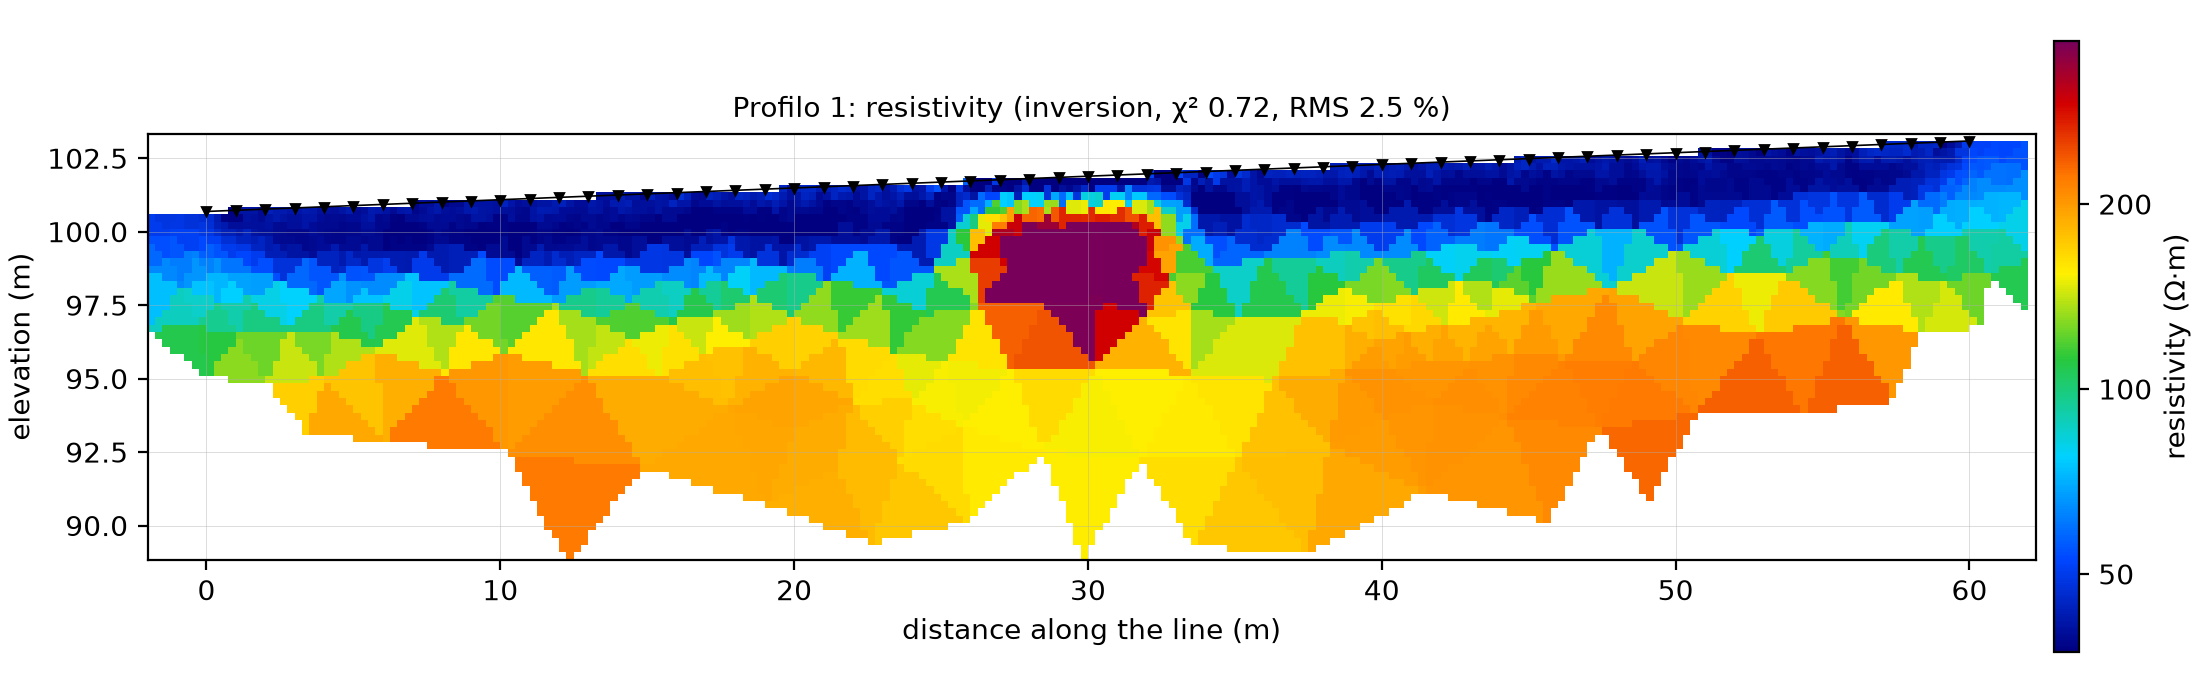
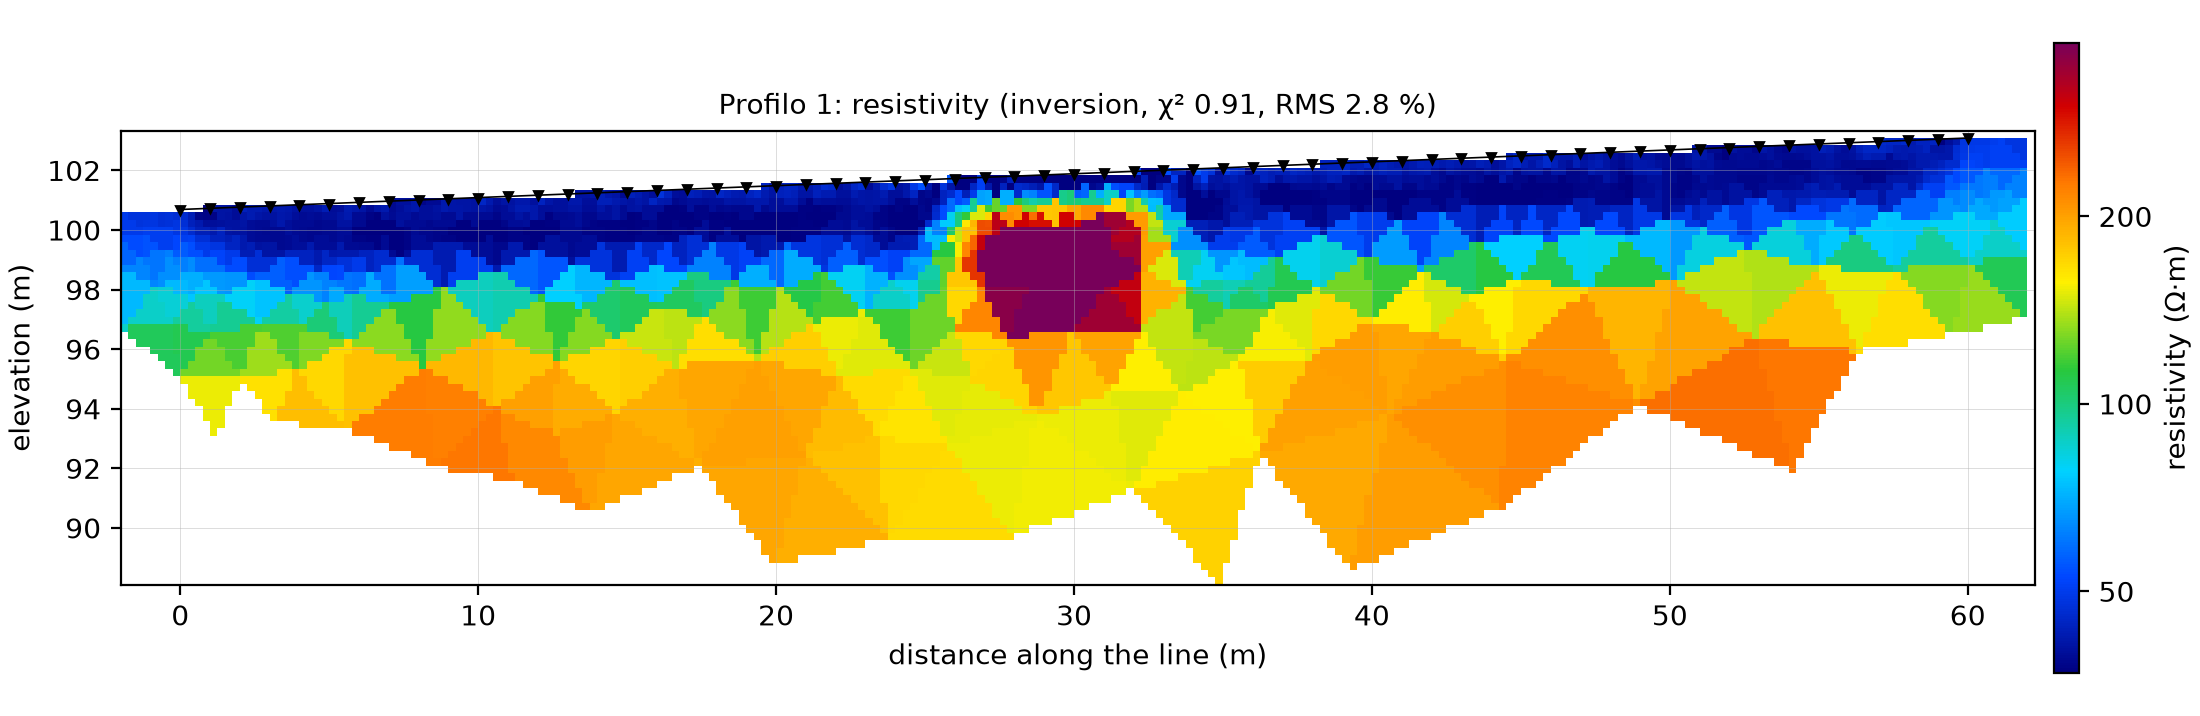
docs(plugins): ERT images shot again, the placement dialog, readings removed by an area
The pane with Remove readings... and Blanking..., the pseudosection drawn as one item,
the section, the 3D view and the exported figure shot again from /Users/Shared (English
and Italian); a new image of the placement dialog with Spacing measured. The text says
how readings leave the inversion now (an area drawn on the pseudosection, not the Select
tool) and the new fit of the example (chi2 0.91, RMS 2.8 %, 637 m2).

diff --git a/docs/plugins/geophysics.it.md b/docs/plugins/geophysics.it.md
@@ -503,7 +503,7 @@ importa letture...* e *Installa pyGIMLi...*.
 <figure markdown="span">
   ![La scheda ERT del pannello Geofisica](../img/plugins/geophysics/ert-pane.it.png)
   <figcaption>La scheda ERT dopo un'inversione: ogni passo con il suo stato - 61 elettrodi e 1711 letture,
-  una linea di 60 m con le quote dal DEM, 1706 letture valide, χ² 0,72 e RMS 2,5 % - e i colori della
+  una linea di 60 m con le quote dal DEM, 1706 letture valide, χ² 0,91 e RMS 2,8 % - e i colori della
   sezione con l'oscuramento in vigore.</figcaption>
 </figure>
 
@@ -582,6 +582,12 @@ Poi, nella stessa finestra:
   chunk ha un DEM), *dal file* (le quote del file degli elettrodi, più la quota sotto) o *piatte* alla quota
   sotto. Le quote sono la topografia che l'inversione segue: su un pendio o un tumulo usa il DEM o il file.
 
+<figure markdown="span">
+  ![La finestra della posa dopo aver disegnato la linea](../img/plugins/geophysics/ert-place.it.png)
+  <figcaption>La finestra che si apre quando la linea è disegnata: il primo elettrodo, la spaziatura, come è
+  misurata (qui in pianta, perché le letture sintetiche hanno le quote) e da dove vengono le quote.</figcaption>
+</figure>
+
 Il pannello dice la lunghezza della linea e l'intervallo delle quote. *Linea sulla pianta* disegna ogni linea
 posata e i suoi elettrodi sull'ortofoto o sul DEM, in un layer, con il suo nome e i numeri del primo e
 dell'ultimo elettrodo.
@@ -594,9 +600,11 @@ punto medio dei quattro elettrodi della lettura, quella verticale una **pseudopr
 dati misurati, non il terreno: ma si vedono a colpo d'occhio le letture cattive - punti isolati di un colore
 molto diverso - e l'impostazione generale del rilievo.
 
-Per togliere una lettura selezionala con lo strumento *Seleziona* del programma e premi *Canc*: diventa
-grigia e resta fuori dall'inversione. *Filtri...* ne toglie molte insieme. Ogni regola è spenta se lasciata
-vuota.
+Per togliere delle letture premi *Togli letture...* e disegna un'area intorno a loro sulla pseudosezione, con il
+disegno del programma (trascina un riquadro, oppure clic sui vertici e doppio clic o Invio; Esc annulla): le
+letture dentro diventano grigie e restano fuori dall'inversione. Le letture sono un'unica immagine del plugin,
+non elementi della vista: lo strumento *Seleziona* del programma non le prende. *Filtri...* ne toglie molte
+insieme. Ogni regola è spenta se lasciata vuota.
 
 | Filtro | Che cosa toglie |
 |---|---|
@@ -604,7 +612,7 @@ vuota.
 | Errore massimo della lettura (%) | le letture il cui errore (la deviazione che lo strumento registra) è sopra il valore, solo se il file lo ha |
 | Errore reciproco massimo (%) | le letture che differiscono dalla loro reciproca - la stessa lettura con gli elettrodi di corrente e di potenziale scambiati - di più del valore; solo per le letture che ne hanno una |
 | Picchi: scarto dai vicini | le letture lontane dai vicini nella pseudosezione, in deviazioni robuste dell'insieme: 8 è un inizio usuale, meno ne toglie di più |
-| Rimetti le letture tolte a mano | annulla le cancellazioni fatte con lo strumento *Seleziona* |
+| Rimetti le letture tolte a mano | ridà le letture tolte con *Togli letture...* (anche *Modifica > Annulla* le ridà) |
 
 Le resistività apparenti nulle o negative sono sempre tolte. Il pannello tiene il conto - *1706 letture
 valide su 1711 (picchi 5)* - e ogni rimozione è registrata, quindi niente va perso: cambia una regola e le
@@ -614,7 +622,8 @@ letture tornano.
   ![La pseudosezione del profilo nella vista 2D](../img/plugins/geophysics/ert-pseudosection.it.png)
   <figcaption>La pseudosezione del profilo sintetico dopo il filtro dei picchi: cinque letture rese sbagliate
   apposta sono grigie, le altre colorate secondo la loro resistività apparente; gli elettrodi nella riga in
-  alto. Il blocco resistivo si vede come una banda verticale di rosso sotto il mezzo della linea.</figcaption>
+  alto. Il blocco resistivo si vede come le due bande rosse oblique, a V rovesciata, che partono dal mezzo della
+  linea: il disegno tipico di un corpo resistivo nel dipolo-dipolo.</figcaption>
 </figure>
 
 ### L'inversione { #ert-invert }
@@ -663,7 +672,7 @@ nel parametro *Profondità d'indagine*:
   risolto, a 1) sono oscurate. Richiede tre volte il tempo; è la risposta migliore quando la profondità della
   sezione conta per te.
 
-Il pannello dice quale oscuramento vale e l'area di sezione rimasta (*633 m² di sezione*). Le soglie si
+Il pannello dice quale oscuramento vale e l'area di sezione rimasta (*637 m² di sezione*). Le soglie si
 cambiano dopo l'inversione con il pulsante *Oscuramento...* del passo *Sezione*: la sezione si ridisegna dalla
 stessa inversione, che non si rifà (si sceglie anche *nessuno*, tutta la maglia). L'indice DOI c'è solo se
 l'inversione l'ha calcolato.

diff --git a/src/pyarchinit_photogrammetry/assistant/guide/plugins/geophysics.it.md b/src/pyarchinit_photogrammetry/assistant/guide/plugins/geophysics.it.md
@@ -503,7 +503,7 @@ importa letture...* e *Installa pyGIMLi...*.
 <figure markdown="span">
   ![La scheda ERT del pannello Geofisica](../img/plugins/geophysics/ert-pane.it.png)
   <figcaption>La scheda ERT dopo un'inversione: ogni passo con il suo stato - 61 elettrodi e 1711 letture,
-  una linea di 60 m con le quote dal DEM, 1706 letture valide, χ² 0,72 e RMS 2,5 % - e i colori della
+  una linea di 60 m con le quote dal DEM, 1706 letture valide, χ² 0,91 e RMS 2,8 % - e i colori della
   sezione con l'oscuramento in vigore.</figcaption>
 </figure>
 
@@ -582,6 +582,12 @@ Poi, nella stessa finestra:
   chunk ha un DEM), *dal file* (le quote del file degli elettrodi, più la quota sotto) o *piatte* alla quota
   sotto. Le quote sono la topografia che l'inversione segue: su un pendio o un tumulo usa il DEM o il file.
 
+<figure markdown="span">
+  ![La finestra della posa dopo aver disegnato la linea](../img/plugins/geophysics/ert-place.it.png)
+  <figcaption>La finestra che si apre quando la linea è disegnata: il primo elettrodo, la spaziatura, come è
+  misurata (qui in pianta, perché le letture sintetiche hanno le quote) e da dove vengono le quote.</figcaption>
+</figure>
+
 Il pannello dice la lunghezza della linea e l'intervallo delle quote. *Linea sulla pianta* disegna ogni linea
 posata e i suoi elettrodi sull'ortofoto o sul DEM, in un layer, con il suo nome e i numeri del primo e
 dell'ultimo elettrodo.
@@ -594,9 +600,11 @@ punto medio dei quattro elettrodi della lettura, quella verticale una **pseudopr
 dati misurati, non il terreno: ma si vedono a colpo d'occhio le letture cattive - punti isolati di un colore
 molto diverso - e l'impostazione generale del rilievo.
 
-Per togliere una lettura selezionala con lo strumento *Seleziona* del programma e premi *Canc*: diventa
-grigia e resta fuori dall'inversione. *Filtri...* ne toglie molte insieme. Ogni regola è spenta se lasciata
-vuota.
+Per togliere delle letture premi *Togli letture...* e disegna un'area intorno a loro sulla pseudosezione, con il
+disegno del programma (trascina un riquadro, oppure clic sui vertici e doppio clic o Invio; Esc annulla): le
+letture dentro diventano grigie e restano fuori dall'inversione. Le letture sono un'unica immagine del plugin,
+non elementi della vista: lo strumento *Seleziona* del programma non le prende. *Filtri...* ne toglie molte
+insieme. Ogni regola è spenta se lasciata vuota.
 
 | Filtro | Che cosa toglie |
 |---|---|
@@ -604,7 +612,7 @@ vuota.
 | Errore massimo della lettura (%) | le letture il cui errore (la deviazione che lo strumento registra) è sopra il valore, solo se il file lo ha |
 | Errore reciproco massimo (%) | le letture che differiscono dalla loro reciproca - la stessa lettura con gli elettrodi di corrente e di potenziale scambiati - di più del valore; solo per le letture che ne hanno una |
 | Picchi: scarto dai vicini | le letture lontane dai vicini nella pseudosezione, in deviazioni robuste dell'insieme: 8 è un inizio usuale, meno ne toglie di più |
-| Rimetti le letture tolte a mano | annulla le cancellazioni fatte con lo strumento *Seleziona* |
+| Rimetti le letture tolte a mano | ridà le letture tolte con *Togli letture...* (anche *Modifica > Annulla* le ridà) |
 
 Le resistività apparenti nulle o negative sono sempre tolte. Il pannello tiene il conto - *1706 letture
 valide su 1711 (picchi 5)* - e ogni rimozione è registrata, quindi niente va perso: cambia una regola e le
@@ -614,7 +622,8 @@ letture tornano.
   ![La pseudosezione del profilo nella vista 2D](../img/plugins/geophysics/ert-pseudosection.it.png)
   <figcaption>La pseudosezione del profilo sintetico dopo il filtro dei picchi: cinque letture rese sbagliate
   apposta sono grigie, le altre colorate secondo la loro resistività apparente; gli elettrodi nella riga in
-  alto. Il blocco resistivo si vede come una banda verticale di rosso sotto il mezzo della linea.</figcaption>
+  alto. Il blocco resistivo si vede come le due bande rosse oblique, a V rovesciata, che partono dal mezzo della
+  linea: il disegno tipico di un corpo resistivo nel dipolo-dipolo.</figcaption>
 </figure>
 
 ### L'inversione { #ert-invert }
@@ -663,7 +672,7 @@ nel parametro *Profondità d'indagine*:
   risolto, a 1) sono oscurate. Richiede tre volte il tempo; è la risposta migliore quando la profondità della
   sezione conta per te.
 
-Il pannello dice quale oscuramento vale e l'area di sezione rimasta (*633 m² di sezione*). Le soglie si
+Il pannello dice quale oscuramento vale e l'area di sezione rimasta (*637 m² di sezione*). Le soglie si
 cambiano dopo l'inversione con il pulsante *Oscuramento...* del passo *Sezione*: la sezione si ridisegna dalla
 stessa inversione, che non si rifà (si sceglie anche *nessuno*, tutta la maglia). L'indice DOI c'è solo se
 l'inversione l'ha calcolato.

diff --git a/docs/plugins/geophysics.md b/docs/plugins/geophysics.md
@@ -494,7 +494,7 @@ readings...* and *Install pyGIMLi...*.
 <figure markdown="span">
   ![The ERT tab of the Geophysics pane](../img/plugins/geophysics/ert-pane.png)
   <figcaption>The ERT tab after an inversion: every step with its state - 61 electrodes and 1711 readings,
-  a line of 60 m with the heights from the DEM, 1706 valid readings, χ² 0.72 and RMS 2.5 % - and the colours of
+  a line of 60 m with the heights from the DEM, 1706 valid readings, χ² 0.91 and RMS 2.8 % - and the colours of
   the section with the blanking in force.</figcaption>
 </figure>
 
@@ -573,6 +573,12 @@ Then, in the same dialog:
   *flat* at the height below. The heights are the topography the inversion follows: on a slope or a
   mound, use the DEM or the file.
 
+<figure markdown="span">
+  ![The placement dialog after drawing the line](../img/plugins/geophysics/ert-place.png)
+  <figcaption>The dialog that opens when the line is drawn: the first electrode, the spacing, how it is measured
+  (here in plan, because the synthetic readings have their heights) and where the heights come from.</figcaption>
+</figure>
+
 The pane says the length of the line and the range of the heights. *Line on the plan* draws every placed
 line and its electrodes on the orthophoto or DEM, in a layer, with its name and the numbers of the first and
 the last electrode.
@@ -585,8 +591,11 @@ of the electrodes), the colour is the apparent resistivity on a logarithmic scal
 ground: but it shows at a glance the bad readings - isolated points of a very different colour - and the
 general layout of the survey.
 
-To take a reading out, select it with the program's *Select* tool and press *Delete*: it turns grey and
-stays out of the inversion. *Filters...* takes out many at once. Every rule is off if left empty.
+To take readings out, press *Remove readings...* and draw an area around them on the pseudosection with the
+program's drawing (drag a box, or click the vertices and double click or Enter; Esc cancels): the readings inside
+turn grey and stay out of the inversion. The readings are one picture of the plugin, not features of the view:
+the program's *Select* tool does not pick them. *Filters...* takes out many at once. Every rule is off if left
+empty.
 
 | Filter | What it removes |
 |---|---|
@@ -594,7 +603,7 @@ stays out of the inversion. *Filters...* takes out many at once. Every rule is o
 | Largest error of a reading (%) | readings whose error (the deviation the instrument logs) is above, only if the file has it |
 | Largest reciprocal error (%) | readings that differ from their reciprocal - the same readings with the current and the potential electrodes swapped - by more than the value; only for readings that have one |
 | Spikes: departure from the neighbours | readings far from their neighbours in the pseudosection, in robust deviations of the whole: 8 is a usual start, lower removes more |
-| Give back the readings removed by hand | undoes the deletions made with the *Select* tool |
+| Give back the readings removed by hand | gives back the readings taken out with *Remove readings...* (*Edit > Undo* gives them back too) |
 
 Zero and negative apparent resistivities are always removed. The pane keeps the count - *1706 valid readings
 of 1711 (spikes 5)* - and every removal is recorded, so nothing is lost: change a rule and the readings come
@@ -604,7 +613,8 @@ back.
   ![The pseudosection of the profile in the 2D view](../img/plugins/geophysics/ert-pseudosection.png)
   <figcaption>The pseudosection of the synthetic profile after the spike filter: five readings that were
   made wrong on purpose are grey, the others coloured by their apparent resistivity; the electrodes on the
-  top row. The resistive block shows as a vertical band of red under the middle of the line.</figcaption>
+  top row. The resistive block shows as the two slanting red bands, an upside-down V, starting from the middle of
+  the line: the usual picture of a resistive body in a dipole-dipole array.</figcaption>
 </figure>
 
 ### The inversion { #ert-invert }
@@ -651,7 +661,7 @@ chosen in the *Depth of investigation* parameter:
   above *DOI index: blank above* (0.4 by default; the index goes from 0, resolved, to 1) are blanked. It takes
   three times as long; it is the better answer when the depth of the section matters to you.
 
-The pane tells which blanking applies and the area of the section left (*633 m² of section*). The
+The pane tells which blanking applies and the area of the section left (*637 m² of section*). The
 thresholds are changed after the inversion with the *Blanking...* button of the *Section* step: the section is
 drawn again from the same inversion, which is not repeated (*none*, the whole mesh, can be chosen too). The DOI
 index is there only when the inversion computed it.

diff --git a/src/pyarchinit_photogrammetry/assistant/guide/plugins/geophysics.md b/src/pyarchinit_photogrammetry/assistant/guide/plugins/geophysics.md
@@ -494,7 +494,7 @@ readings...* and *Install pyGIMLi...*.
 <figure markdown="span">
   ![The ERT tab of the Geophysics pane](../img/plugins/geophysics/ert-pane.png)
   <figcaption>The ERT tab after an inversion: every step with its state - 61 electrodes and 1711 readings,
-  a line of 60 m with the heights from the DEM, 1706 valid readings, χ² 0.72 and RMS 2.5 % - and the colours of
+  a line of 60 m with the heights from the DEM, 1706 valid readings, χ² 0.91 and RMS 2.8 % - and the colours of
   the section with the blanking in force.</figcaption>
 </figure>
 
@@ -573,6 +573,12 @@ Then, in the same dialog:
   *flat* at the height below. The heights are the topography the inversion follows: on a slope or a
   mound, use the DEM or the file.
 
+<figure markdown="span">
+  ![The placement dialog after drawing the line](../img/plugins/geophysics/ert-place.png)
+  <figcaption>The dialog that opens when the line is drawn: the first electrode, the spacing, how it is measured
+  (here in plan, because the synthetic readings have their heights) and where the heights come from.</figcaption>
+</figure>
+
 The pane says the length of the line and the range of the heights. *Line on the plan* draws every placed
 line and its electrodes on the orthophoto or DEM, in a layer, with its name and the numbers of the first and
 the last electrode.
@@ -585,8 +591,11 @@ of the electrodes), the colour is the apparent resistivity on a logarithmic scal
 ground: but it shows at a glance the bad readings - isolated points of a very different colour - and the
 general layout of the survey.
 
-To take a reading out, select it with the program's *Select* tool and press *Delete*: it turns grey and
-stays out of the inversion. *Filters...* takes out many at once. Every rule is off if left empty.
+To take readings out, press *Remove readings...* and draw an area around them on the pseudosection with the
+program's drawing (drag a box, or click the vertices and double click or Enter; Esc cancels): the readings inside
+turn grey and stay out of the inversion. The readings are one picture of the plugin, not features of the view:
+the program's *Select* tool does not pick them. *Filters...* takes out many at once. Every rule is off if left
+empty.
 
 | Filter | What it removes |
 |---|---|
@@ -594,7 +603,7 @@ stays out of the inversion. *Filters...* takes out many at once. Every rule is o
 | Largest error of a reading (%) | readings whose error (the deviation the instrument logs) is above, only if the file has it |
 | Largest reciprocal error (%) | readings that differ from their reciprocal - the same readings with the current and the potential electrodes swapped - by more than the value; only for readings that have one |
 | Spikes: departure from the neighbours | readings far from their neighbours in the pseudosection, in robust deviations of the whole: 8 is a usual start, lower removes more |
-| Give back the readings removed by hand | undoes the deletions made with the *Select* tool |
+| Give back the readings removed by hand | gives back the readings taken out with *Remove readings...* (*Edit > Undo* gives them back too) |
 
 Zero and negative apparent resistivities are always removed. The pane keeps the count - *1706 valid readings
 of 1711 (spikes 5)* - and every removal is recorded, so nothing is lost: change a rule and the readings come
@@ -604,7 +613,8 @@ back.
   ![The pseudosection of the profile in the 2D view](../img/plugins/geophysics/ert-pseudosection.png)
   <figcaption>The pseudosection of the synthetic profile after the spike filter: five readings that were
   made wrong on purpose are grey, the others coloured by their apparent resistivity; the electrodes on the
-  top row. The resistive block shows as a vertical band of red under the middle of the line.</figcaption>
+  top row. The resistive block shows as the two slanting red bands, an upside-down V, starting from the middle of
+  the line: the usual picture of a resistive body in a dipole-dipole array.</figcaption>
 </figure>
 
 ### The inversion { #ert-invert }
@@ -651,7 +661,7 @@ chosen in the *Depth of investigation* parameter:
   above *DOI index: blank above* (0.4 by default; the index goes from 0, resolved, to 1) are blanked. It takes
   three times as long; it is the better answer when the depth of the section matters to you.
 
-The pane tells which blanking applies and the area of the section left (*633 m² of section*). The
+The pane tells which blanking applies and the area of the section left (*637 m² of section*). The
 thresholds are changed after the inversion with the *Blanking...* button of the *Section* step: the section is
 drawn again from the same inversion, which is not repeated (*none*, the whole mesh, can be chosen too). The DOI
 index is there only when the inversion computed it.
